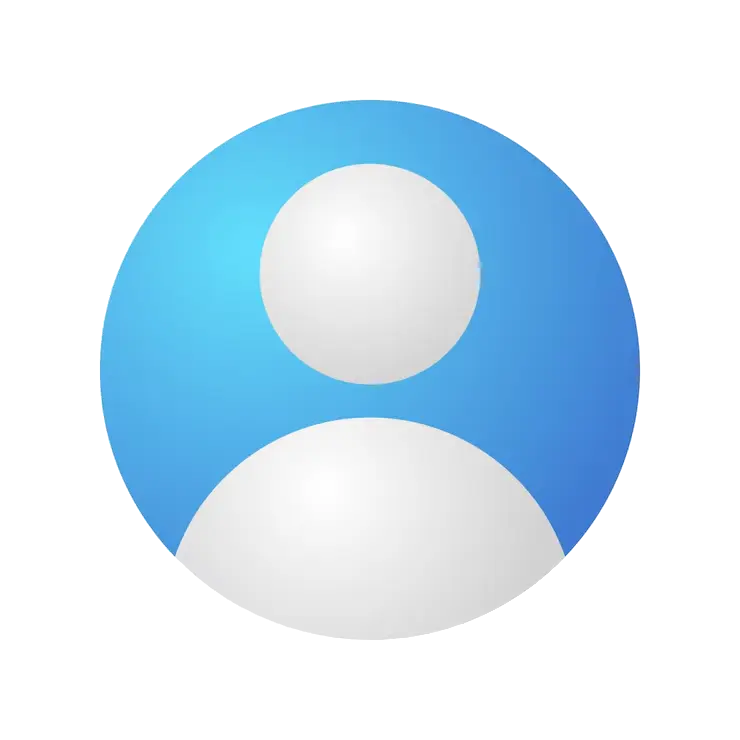
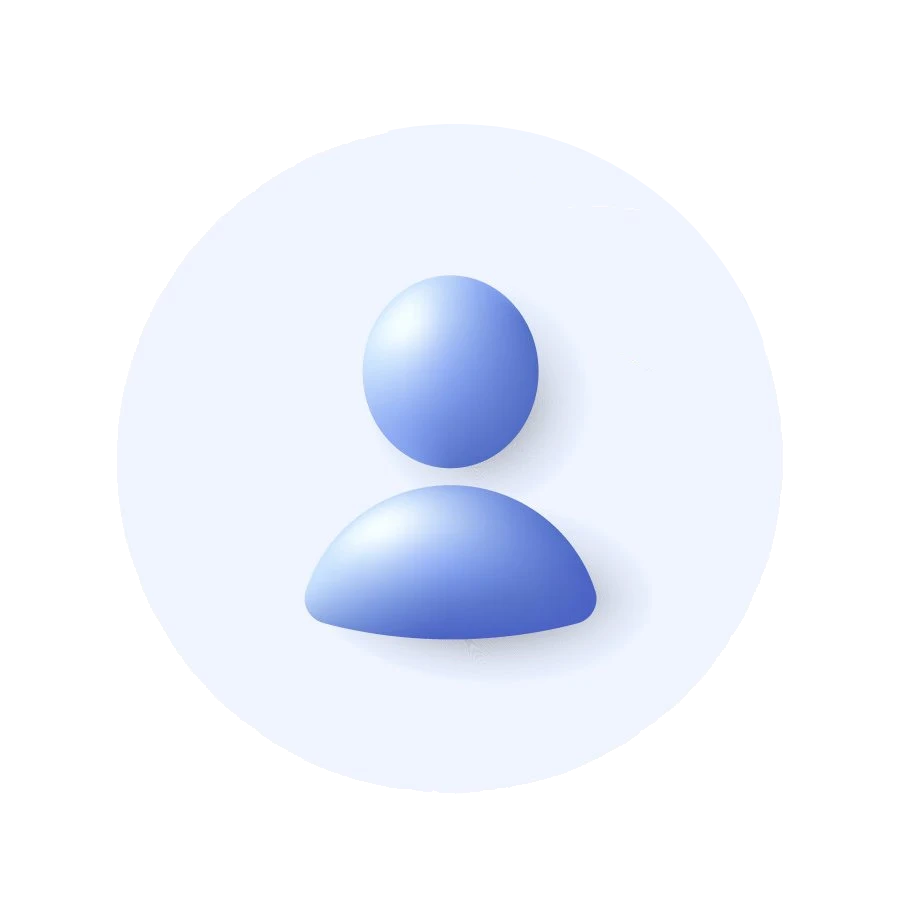
chore: update placeholder photo for profile

diff --git a/manager/templates/user/account.html b/manager/templates/user/account.html
@@ -32,10 +32,12 @@
     </div>
     <div class="row g-0">
       <div class="col-md-4">
-        {% if user.is_staff %}
-          <img src="{% static 'images/profile-super.webp' %}" class="img-fluid rounded-start" alt="..." />
+        {% if user.is_superuser %}
+          <img src="{% static 'images/profile-super.webp' %}" class="img-fluid rounded-start" alt="super-user" />
+        {% elif user.is_staff %}
+          <img src="{% static 'images/profile-staff.webp' %}" class="img-fluid rounded-start" alt="staff-profile" />
         {% else %}
-          <img src="{% static 'images/profile-active.webp' %}" class="img-fluid rounded-start" alt="..." />
+          <img src="{% static 'images/profile.webp' %}" class="img-fluid rounded-start" alt="member-profile" />
         {% endif %}
       </div>
       <div class="col-md-8">
